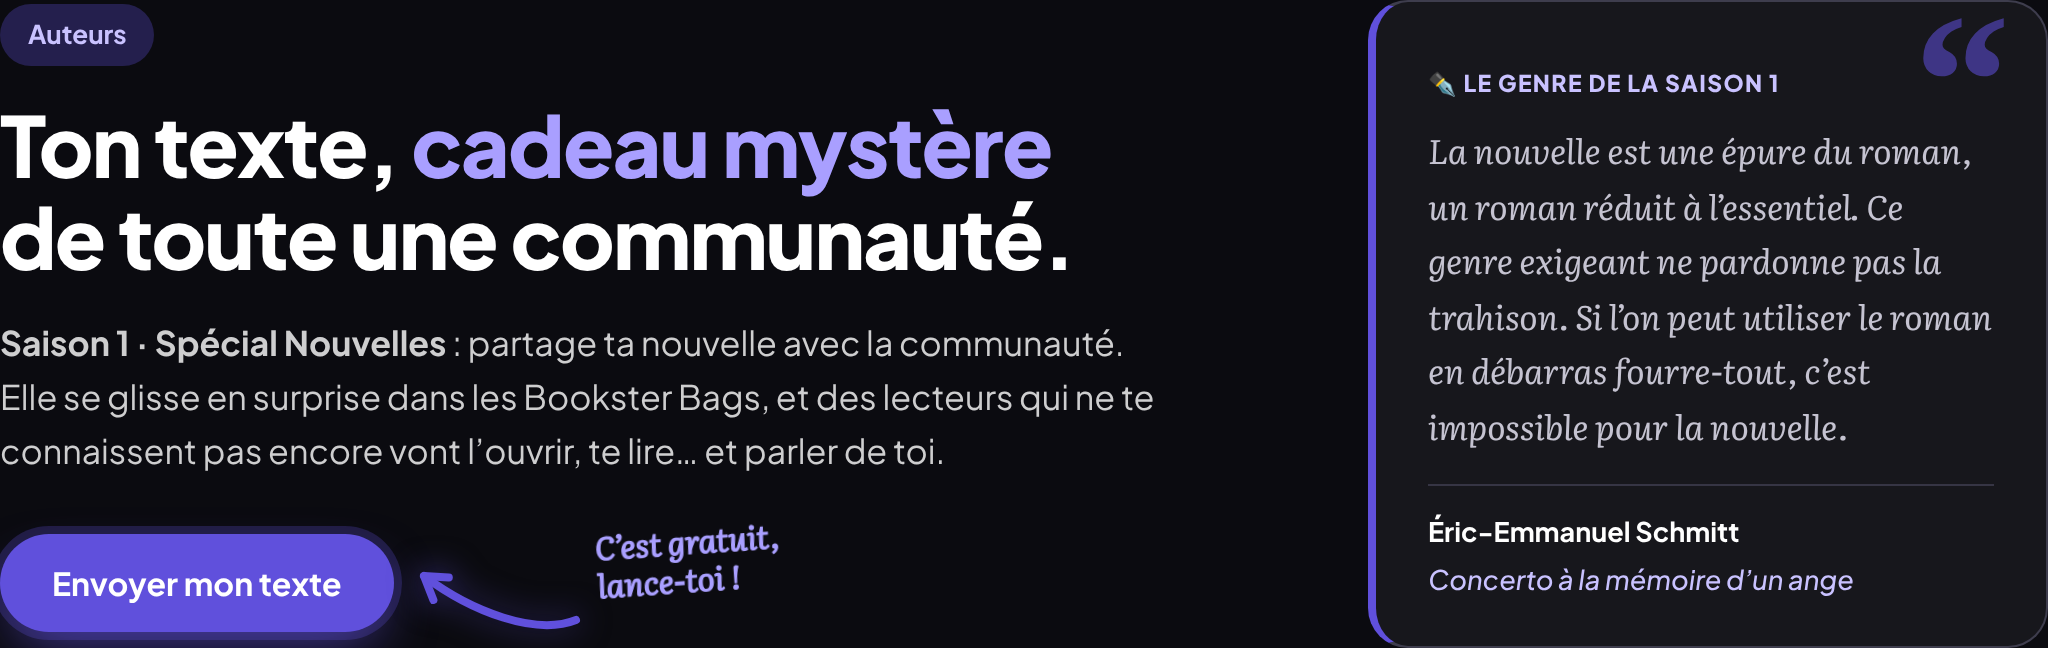
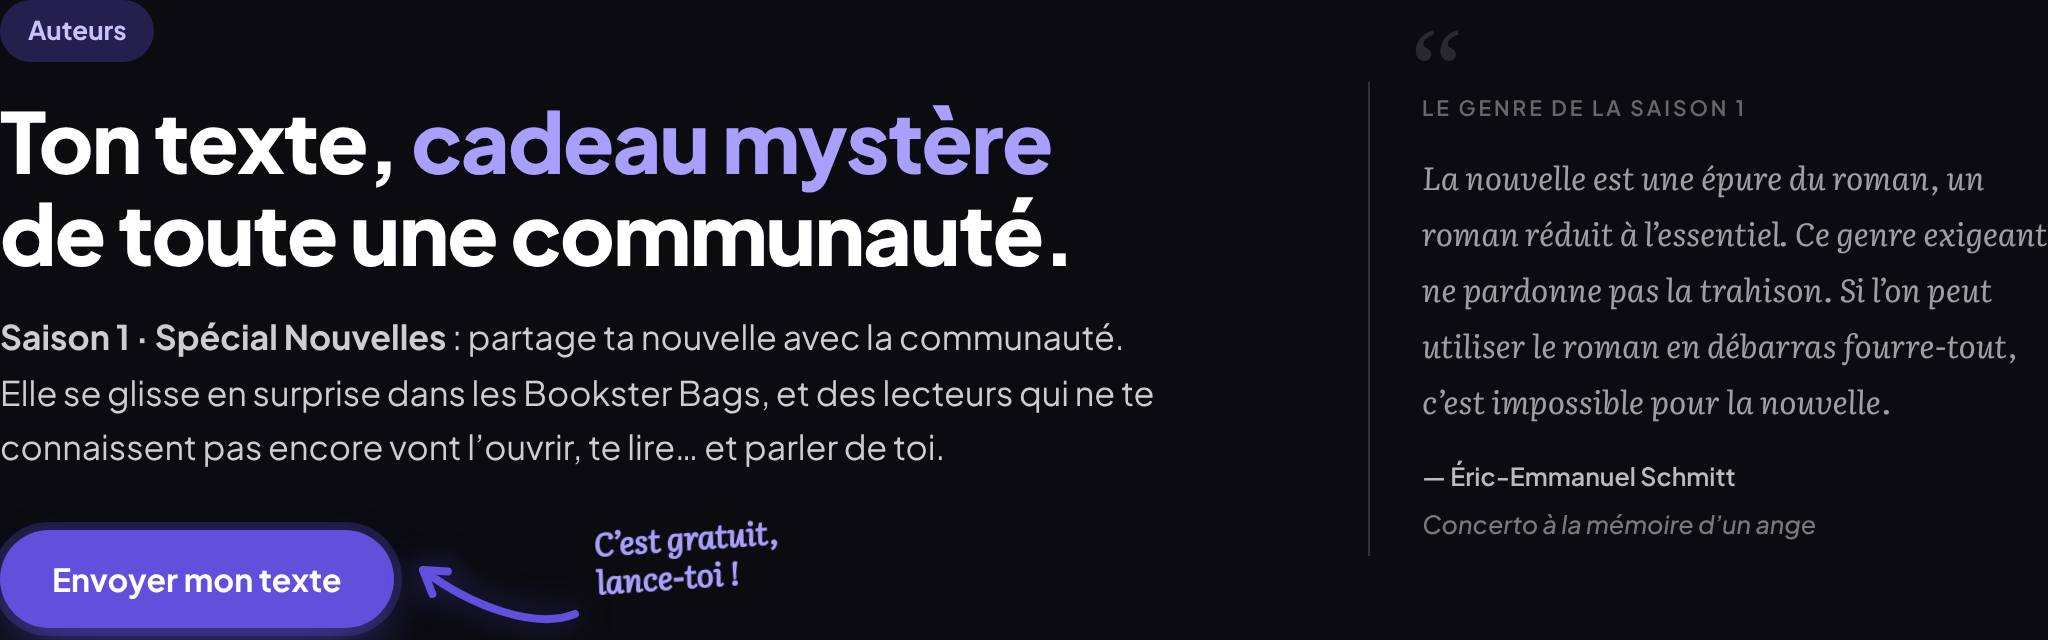
Citation de l'espace auteurs : style plus discret, écriture blanc soyeux
Claude-Session: https://claude.ai/code/session_01EPa3evC84KLMU14gb8iTX3

diff --git a/index.html b/index.html
@@ -126,14 +126,14 @@ section{padding:72px 0}
 .authors{background:var(--ink);color:#fff;border-radius:32px;padding:56px}
 .a-top{display:grid;grid-template-columns:minmax(0,1fr) minmax(0,340px);gap:44px;align-items:center}
 .a-top:has(.a-quote[hidden]){display:block;max-width:760px}
-.a-quote{position:relative;margin:0;background:rgba(255,255,255,.05);border:1px solid rgba(201,194,255,.22);border-left:4px solid var(--maj);border-radius:20px;padding:26px 26px 22px}
+.a-quote{position:relative;margin:0;padding:6px 0 6px 26px;border-left:1px solid rgba(255,255,255,.16)}
 .a-quote[hidden]{display:none}
-.a-quote::before{content:"“";position:absolute;top:-8px;right:18px;font:700 96px/1 Georgia,serif;color:var(--maj);opacity:.55}
-.aq-k{display:inline-block;font:800 11.5px var(--sans);letter-spacing:.06em;text-transform:uppercase;color:#c9c2ff;margin-bottom:12px}
+.a-quote::before{content:"“";position:absolute;top:-36px;left:20px;font:400 60px/1 Georgia,serif;color:rgba(255,255,255,.12)}
+.aq-k{display:block;font:600 10.5px var(--sans);letter-spacing:.14em;text-transform:uppercase;color:rgba(255,255,255,.38);margin-bottom:14px}
 .a-quote blockquote{margin:0}
-.a-quote blockquote p{margin:0!important;font:italic 400 17px/1.62 "Literata",Georgia,serif;color:#F1EFFF}
-.a-quote figcaption{margin-top:16px;padding-top:12px;border-top:1px solid rgba(201,194,255,.18);display:flex;flex-direction:column;gap:2px;font-size:13.5px}
-.a-quote figcaption b{color:#fff}.a-quote cite{color:#c9c2ff;font-style:italic}
+.a-quote blockquote p{margin:0!important;font:italic 300 16px/1.75 "Literata",Georgia,serif;color:rgba(248,246,255,.78);letter-spacing:.005em;text-shadow:0 0 18px rgba(255,255,255,.06)}
+.a-quote figcaption{margin-top:14px;display:flex;flex-wrap:wrap;gap:4px 8px;font-size:12.5px;color:rgba(255,255,255,.5)}
+.a-quote figcaption b{font-weight:600;color:rgba(255,255,255,.72)}.a-quote figcaption b::before{content:"— "}.a-quote cite{font-style:italic;color:rgba(255,255,255,.45)}
 @media(max-width:900px){.a-top{grid-template-columns:1fr;gap:28px}.a-quote{max-width:560px}}
 .a-eyebrow{display:inline-block;background:rgba(96,80,220,.3);color:#c9c2ff;border-radius:999px;padding:5px 14px;font-weight:700;font-size:13px;margin-bottom:16px}
 .authors h2{font-size:clamp(28px,3.4vw,42px)}
@@ -1398,7 +1398,7 @@ footer .legal{grid-column:1/-1;border-top:1px solid var(--line);padding-top:18px
             </div>
           </div>
           <figure class="a-quote" id="aQuote">
-            <span class="aq-k">✒ Le genre de la Saison 1</span>
+            <span class="aq-k">Le genre de la Saison 1</span>
             <blockquote><p>La nouvelle est une épure du roman, un roman réduit à l’essentiel. Ce genre exigeant ne pardonne pas la trahison. Si l’on peut utiliser le roman en débarras fourre-tout, c’est impossible pour la nouvelle.</p></blockquote>
             <figcaption><b>Éric-Emmanuel Schmitt</b><cite>Concerto à la mémoire d’un ange</cite></figcaption>
           </figure>
@@ -1509,7 +1509,7 @@ footer .legal{grid-column:1/-1;border-top:1px solid var(--line);padding-top:18px
       <div><b>Vendre &amp; écrire</b><a href="#top" data-sell>Vendre un livre</a><a href="#auteurs">Espace auteur</a><a href="#top" data-auteur>Envoyer mon texte</a></div>
       <div><b>Aide</b><a href="#aide" data-aide>Demander à Plume</a><a href="legal.html#mentions">Mentions légales</a><a href="legal.html#cgu">CGU</a></div>
     </nav>
-    <p class="legal">© 2026 Bookstery · Fait avec soin à Lyon. <span class="ver">Version du 21/11/2026 (d) · Saison 1</span></p>
+    <p class="legal">© 2026 Bookstery · Fait avec soin à Lyon. <span class="ver">Version du 21/11/2026 (e) · Saison 1</span></p>
   </div>
 </footer>
 
@@ -1863,7 +1863,7 @@ footer .legal{grid-column:1/-1;border-top:1px solid var(--line);padding-top:18px
 
 <script src="https://cdn.jsdelivr.net/npm/@supabase/supabase-js@2"></script>
 <script src="https://cdnjs.cloudflare.com/ajax/libs/qrcodejs/1.0.0/qrcode.min.js"></script>
-<script src="config.js?v=20261121d"></script>
+<script src="config.js?v=20261121e"></script>
 <script>
 /* Défini en premier : le Bag (rendu dès le chargement) en a besoin. Même calendrier que supabase/functions/_shared/saisons.ts (à garder identique) */
 var SAISONS=[
